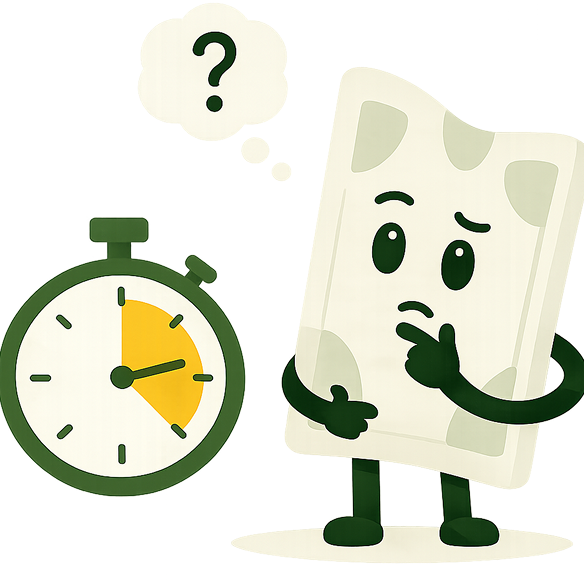
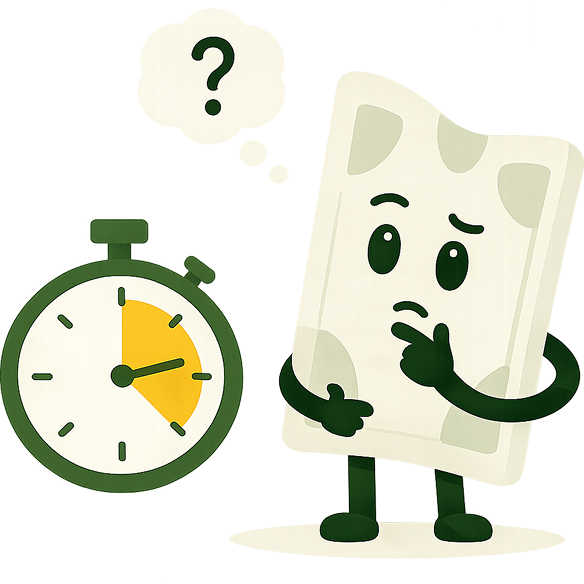
update dashboard

diff --git a/src/components/Onboarding/Onboarding.module.scss b/src/components/Onboarding/Onboarding.module.scss
@@ -1,97 +1,59 @@
 .page {
   width: 100%;
+  padding: 33px 0;
 }
 
 .header {
   display: flex;
   justify-content: space-between;
   align-items: flex-start;
-  padding: 40px 0;
-  margin-bottom: 70px;
+  margin-bottom: 130px;
 }
 
 .content {
   display: grid;
-  grid-template-columns: minmax(320px, 1fr) minmax(240px, 550px);
-  gap: 30px;
+  grid-template-columns: minmax(320px, 1fr) minmax(240px, 600px);
+  gap: 24px;
   align-items: center;
 }
 
-.content_text {
+.content_inner {
   display: flex;
   flex-direction: column;
-  gap: 56px;
 }
 
 .title {
   width: 100%;
-  max-width: 640px;
+  max-width: 600px;
   color: $color-brand;
-  font-size: 96px;
+  font-size: 72px;
   font-weight: $font-weight-bold;
   line-height: 1.1;
+  margin-bottom: 16px;
 }
 
 .description {
   max-width: 496px;
-  font-size: 32px;
+  font-size: 20px;
+  margin-bottom: 32px;
 }
 
 .actions {
   display: inline-flex;
   align-items: center;
   gap: 12px;
+  margin-bottom: 64px;
+}
+
+.progress_wrapper {
+  display: flex;
+  align-items: center;
+  gap: 25px;
 }
 
 .illustration {
   justify-self: center;
-  width: min(100%, 550px);
+  width: min(100%, 600px);
   aspect-ratio: 1 / 1;
   object-fit: contain;
-}
-
-.footer {
-  display: flex;
-  align-items: center;
-  padding: 40px 0;
-  margin-top: 70px;
-}
-
-@media (max-width: 992px) {
-  .title {
-    font-size: 42px;
-  }
-
-  .content {
-    grid-template-columns: 1fr;
-    gap: 20px;
-  }
-
-  .illustration {
-    width: min(100%, 280px);
-    order: -1;
-  }
-}
-
-@media (max-width: 768px) {
-  .page {
-    padding-top: 20px;
-  }
-
-  .header {
-    margin-bottom: 24px;
-  }
-
-  .title {
-    font-size: 34px;
-  }
-
-  .description {
-    margin-bottom: 20px;
-    font-size: 15px;
-  }
-
-  .actions {
-    flex-wrap: wrap;
-  }
 }

diff --git a/src/ui-kit/Logo/Logo.tsx b/src/ui-kit/Logo/Logo.tsx
@@ -1,6 +1,8 @@
 import clsx from 'clsx';
+import { Link } from 'react-router-dom';
 
 import { LogoIcon } from '@/assets/icons';
+import { routes } from '@/constants/routes';
 
 import styles from './Logo.module.scss';
 
@@ -8,13 +10,33 @@ interface LogoProps {
   withText?: boolean;
   text?: string;
   className?: string;
+  linkToDashboard?: boolean;
 }
 
-export const Logo = ({ withText = true, text = 'Worthy', className }: LogoProps) => {
-  return (
-    <div className={clsx(styles.logo, className)}>
+export const Logo = ({
+  withText = true,
+  text = 'Worthy',
+  className,
+  linkToDashboard = false,
+}: LogoProps) => {
+  const content = (
+    <>
       <LogoIcon className={styles.icon} />
       {withText && <span className={styles.text}>{text}</span>}
+    </>
+  );
+
+  if (linkToDashboard) {
+    return (
+      <Link to={routes.dashboard} className={clsx(styles.logo, className)}>
+        {content}
+      </Link>
+    );
+  }
+
+  return (
+    <div className={clsx(styles.logo, className)}>
+      {content}
     </div>
   );
 };

diff --git a/src/ui-kit/Button/Button.module.scss b/src/ui-kit/Button/Button.module.scss
@@ -2,17 +2,18 @@
   display: inline-flex;
   align-items: center;
   justify-content: center;
-  gap: 8px;
-  min-height: 64px;
-  padding: 10px 24px;
+  gap: 0px;
+  min-height: 46px;
+  padding: 12px 32px;
   border-radius: 16px;
   border: 1.6px solid transparent;
   font-family: $font-family-primary;
-  font-size: 24px;
-  font-weight: $font-weight-bold;
+  font-size: 18px;
+  font-weight: $font-weight-semibold;
   line-height: 1;
   cursor: pointer;
-  transition: all 0.2s ease;
+  transition: opacity $transition-primary, background-color $transition-primary,
+    border-color $transition-primary, color $transition-primary;
 
   &:disabled {
     opacity: 0.6;
@@ -21,15 +22,20 @@
 }
 
 .icon {
-  display: inline-flex;
-  width: 32px;
-  height: 32px;
   flex-shrink: 0;
+  width: 24px;
+  height: 24px;
+
+  & > svg {
+    width: 100%;
+    height: 100%;
+  }
 }
 
 .primary {
   color: $color-font-secondary;
   background-color: $color-brand;
+  box-shadow: 0 4px 16px 0 rgba(31, 77, 54, 0.2);
 
   &:hover:not(:disabled) {
     opacity: 0.9;
@@ -40,6 +46,7 @@
   color: $color-brand;
   background-color: transparent;
   border-color: $color-brand;
+  box-shadow: 0 4px 16px 0 rgba(31, 77, 54, 0.2);
 
   &:hover:not(:disabled) {
     background-color: rgba(31, 77, 54, 0.06);
@@ -54,7 +61,7 @@
   border: none;
   background-color: transparent;
   font-weight: $font-weight-medium;
-  font-size: 32px;
+  font-size: 24px;
   font-weight: $font-weight-medium;
 
   &:hover:not(:disabled) {

diff --git a/src/ui-kit/StepProgress/StepProgress.module.scss b/src/ui-kit/StepProgress/StepProgress.module.scss
@@ -1,26 +1,18 @@
 .progress {
   display: inline-flex;
   align-items: center;
-  gap: 45px;
-
-  @include media-down($breakpoint-m) {
-    gap: 24px;
-  }
+  gap: 25px;
 }
 
 .dots {
   display: inline-flex;
   align-items: center;
-  gap: 45px;
-
-  @include media-down($breakpoint-m) {
-    gap: 24px;
-  }
+  gap: 25px;
 }
 
 .dot {
-  width: 24px;
-  height: 24px;
+  width: 18px;
+  height: 18px;
   border-radius: 50%;
   background-color: $color-accent;
 }
@@ -31,6 +23,6 @@
 
 .counter {
   color: $color-brand;
-  font-size: 24px;
+  font-size: 18px;
   font-weight: $font-weight-semibold;
 }

diff --git a/src/components/Onboarding/Onboarding.tsx b/src/components/Onboarding/Onboarding.tsx
@@ -28,11 +28,10 @@ const Onboarding: React.FC<OnboardingProps> = ({
     <section className={styles.page}>
       <header className={styles.header}>
         <Logo />
-        <Button variant="ghost" text="Skip" onClick={handleSkip} />
       </header>
 
       <div className={styles.content}>
-        <div className={styles.content_text}>
+        <div className={styles.content_inner}>
           <h1 className={styles.title}>{currentSlide.title}</h1>
           <p className={styles.description}>{currentSlide.description}</p>
 
@@ -49,18 +48,18 @@ const Onboarding: React.FC<OnboardingProps> = ({
             <Button
               variant="primary"
               icon={'ArrowRightIcon'}
-              text={isLastStep ? 'Go to dashboard' : isFirstStep ? 'Let`s get started' : 'Next'}
+              text={isLastStep ? 'Go to dashboard' : isFirstStep ? 'Try it FREE' : 'Next'}
               onClick={handleNext}
             />
+          </div>
+          <div className={styles.progress_wrapper}>
+            <StepProgress current={currentStep} total={totalSteps} />
+            {!isLastStep && <Button variant="ghost" text="Skip" onClick={handleSkip} />}
           </div>
         </div>
 
         <img className={styles.illustration} src={currentSlide.image} alt={currentSlide.title} />
       </div>
-
-      <footer className={styles.footer}>
-        <StepProgress current={currentStep} total={totalSteps} />
-      </footer>
     </section>
   );
 };

diff --git a/src/components/Layout/Header/Header.module.scss b/src/components/Layout/Header/Header.module.scss
@@ -1,5 +1,10 @@
 .header {
-  background-color: #1ac91a;
-  padding: 20px 0;
-  border-bottom: 1px solid #e0e0e0;
+  background-color: $color-light;
+  padding: 32px 0;
+}
+
+.content {
+  display: flex;
+  align-items: center;
+  justify-content: space-between;
 }

diff --git a/src/ui-kit/Logo/Logo.module.scss b/src/ui-kit/Logo/Logo.module.scss
@@ -5,14 +5,14 @@
 }
 
 .icon {
-  width: 64px;
-  height: 64px;
+  width: 42px;
+  height: 46px;
   flex-shrink: 0;
 }
 
 .text {
   color: $color-brand;
-  font-size: 40px;
+  font-size: 32px;
   font-weight: $font-weight-semibold;
   line-height: 1;
 }

diff --git a/src/components/Layout/Header/Header.tsx b/src/components/Layout/Header/Header.tsx
@@ -1,4 +1,5 @@
 import styles from './Header.module.scss';
+import { Logo } from '@/ui-kit';
 
 interface HeaderProps {
   pathname: string;
@@ -9,7 +10,9 @@ const Header: React.FC<HeaderProps> = ({ pathname }) => {
   return (
     <header className={styles.header}>
       <div className={'container'}>
-        <p>Header</p>
+        <div className={styles.content}>
+          <Logo linkToDashboard />
+        </div>
       </div>
     </header>
   );

diff --git a/src/hooks/useOnboarding.ts b/src/hooks/useOnboarding.ts
@@ -27,8 +27,7 @@ const onboardingSlides: OnboardingSlide[] = [
   },
   {
     title: 'Take time to think',
-    description:
-      'Worthy encourages you to take a pause before buying with a reflection timer. Good decisions take time.',
+    description: 'Good decisions take time. Worthy encourages you to take a pause before buying.',
     image: worthyTimeImg,
   },
   {